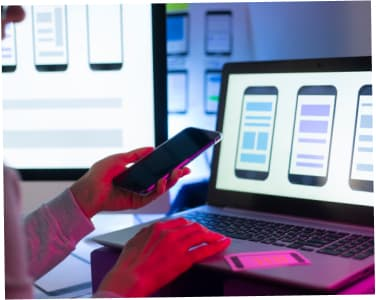
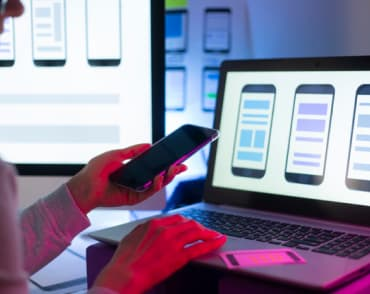
Чем мы занимаемся подписи карточек

diff --git a/index.html b/index.html
@@ -141,28 +141,46 @@
           <h2 class="job-title">Чем мы занимаемся</h2>
           <ul class="job-img list">
             <li class="job-item">
-              <img
+              <div class="img-job-item">
+                <img
                 src="./images/box1.jpg "
                 width="370"
                 height="294"
                 alt="работает програмист"
               />
-            </li>
+              <div class="under-job-item">
+                <p class="text-under-job-item" 
+                > ДЕСКТОПНЫЕ ПРИЛОЖЕНИЯ </p>
+              </div>
+              </div>
+              </li>
             <li class="job-item">
-              <img
+              <div class="img-job-item">
+                <img
                 src="./images/box2.jpg"
                 width="370"
                 height="294"
                 alt="работает дизайнер"
               />
-            </li>
+              <div class="under-job-item">
+                <p class="text-under-job-item" 
+                > МОБИЛЬНЫЕ ПРИЛОЖЕНИЯ </p>
+              </div>
+              </div>
+              </li>
             <li class="job-item">
-              <img
+              <div class="img-job-item">
+                <img
                 src="./images/box3.jpg"
                 width="370"
                 height="294"
                 alt="выбор цвета"
               />
+                 <div class="under-job-item">
+                <p class="text-under-job-item" 
+                > ДИЗАЙНЕРСКИЕ РЕШЕНИЯ </p>
+              </div>
+              </div>
             </li>
           </ul>
         </div>

diff --git a/css/styles.css b/css/styles.css
@@ -18,6 +18,8 @@
   --shadow-team: #00000025;
   --card-team-bg: #ffffff;
   --customers-color-icon: #afb1b8;
+  --text-under-job-item: #ffffff;
+  --under-job-item-bg: #2f303a80;
 }
 body {
   background-color: var(#ffffff);
@@ -293,6 +295,28 @@ p {
   text-align: center;
 
   color: var(--title-text-color);
+}
+.img-job-item {
+  position: relative;
+}
+.under-job-item {
+  display: flex;
+  position: absolute;
+  bottom: 0;
+  justify-content: center;
+  align-items: center;
+  width: 370px;
+  height: 70px;
+  background-color: var(--under-job-item-bg);
+}
+.text-under-job-item {
+  font-family: Roboto;
+  font-weight: bold;
+  font-style: normal;
+  font-size: 14px;
+  line-height: 11.17;
+  text-align: center;
+  color: var(--text-under-job-item);
 }
 
 /*======= OUR JOB END =======*/
